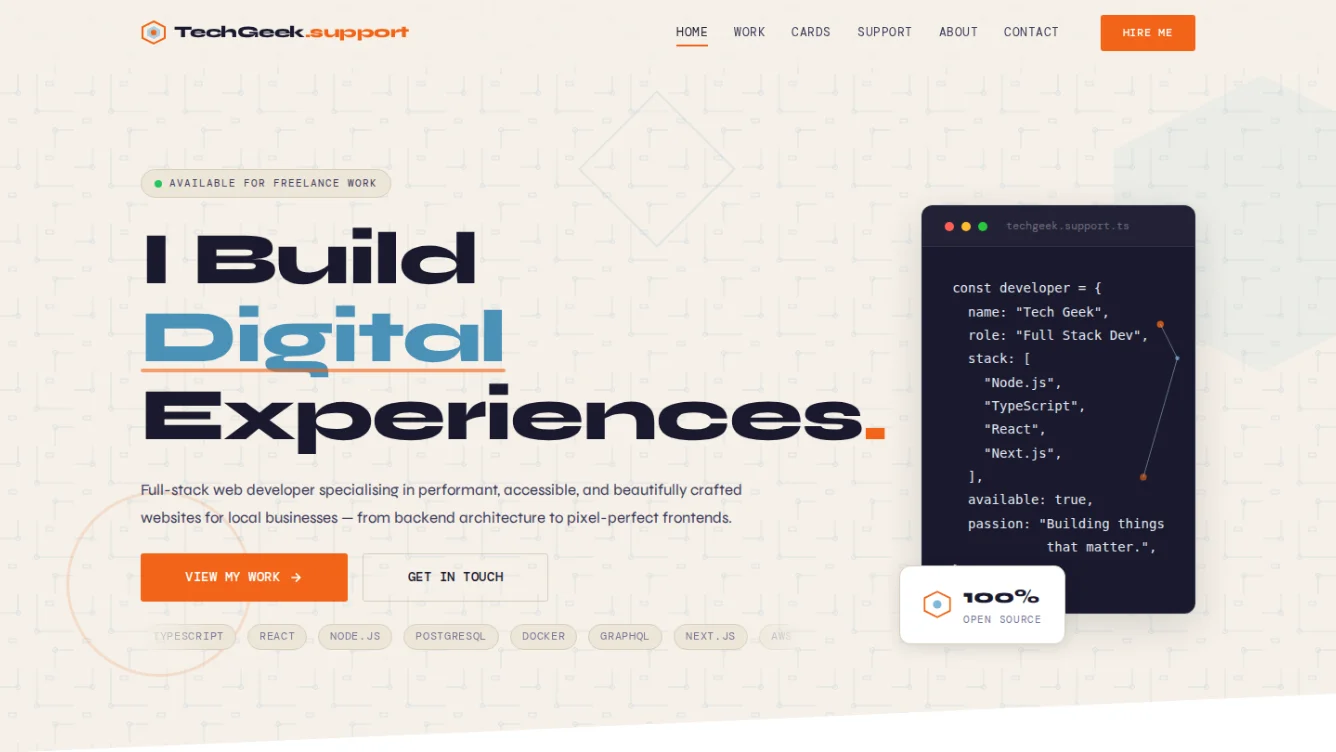
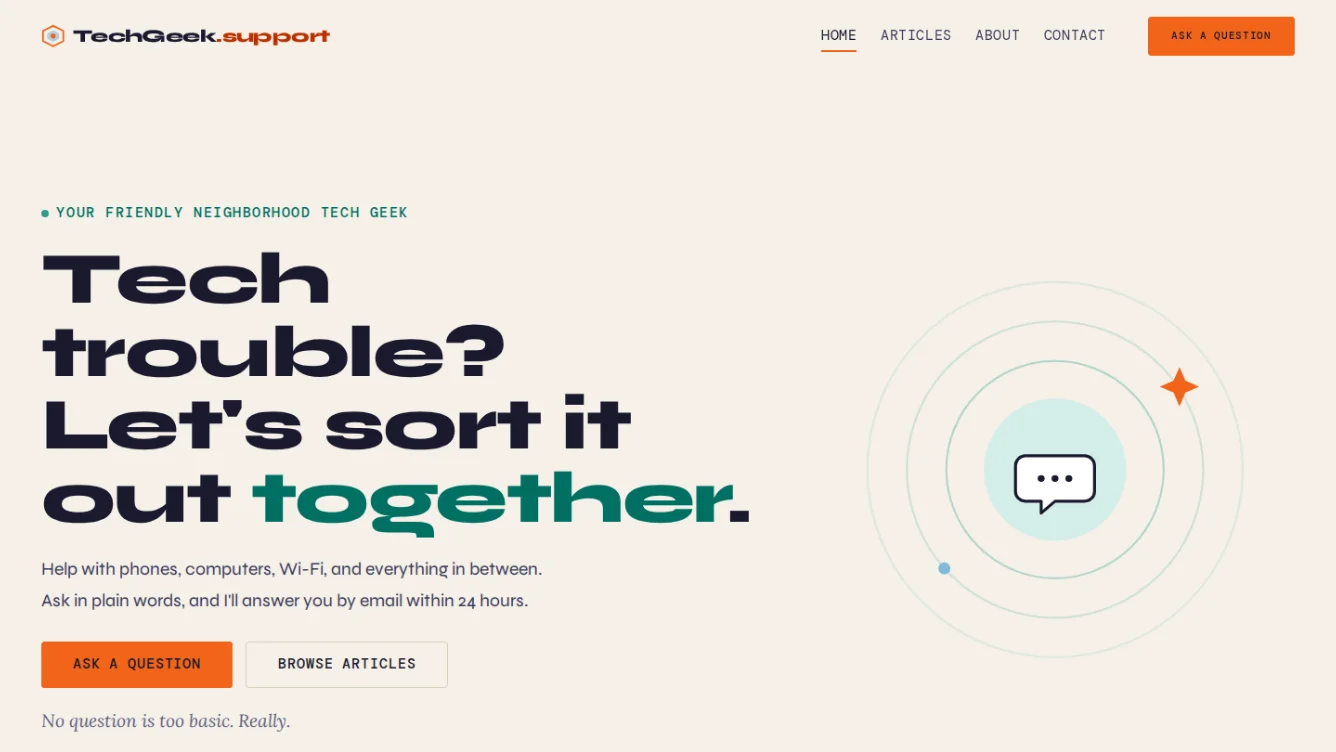
What: TechGeek.support And TechGeek.cards Projects. Why: The Tech Geek entry still described the old all-in-one site, and TechGeek.cards was never added once the two sister sites went live. How: The entry becomes TechGeek.support with a tech help description and its new repository, TechGeek.cards jo

diff --git a/src/ui/projects.ts b/src/ui/projects.ts
@@ -3,13 +3,14 @@
 
 // #region Imports
 
-import emlScrUrl from '../assets/images/ease-my-life-website.webp';     // What: Ease-My-Life Screenshot URL. Why: The Ease My Life project card shows a screenshot of its site. How: Vite resolves this to the image's fingerprinted URL.
-import hadScrUrl from '../assets/images/hair-designs-website.webp';     // What: Hair-Designs Screenshot URL. Why: The Hair Designs project card shows a screenshot of its site. How: Vite resolves this to the image's fingerprinted URL.
-import rerScrUrl from '../assets/images/reese-roofing-website.webp';    // What: Reese-Roofing Screenshot URL. Why: The Reese Roofing project card shows a screenshot of its site. How: Vite resolves this to the image's fingerprinted URL.
-import sasScrUrl from '../assets/images/seal-and-shield-website.webp';  // What: Seal-And-Shield Screenshot URL. Why: The Seal and Shield project card shows a screenshot of its site. How: Vite resolves this to the image's fingerprinted URL.
-import tbbScrUrl from '../assets/images/the-bernie-bears-website.webp'; // What: The-Bernie-Bears Screenshot URL. Why: The Bernie Bears project card shows a screenshot of its site. How: Vite resolves this to the image's fingerprinted URL.
-import tegScrUrl from '../assets/images/tech-geek-website.webp';        // What: Tech-Geek Screenshot URL. Why: The Tech Geek project card shows a screenshot of its site. How: Vite resolves this to the image's fingerprinted URL.
-import totScrUrl from '../assets/images/tonys-toppers-website.webp';    // What: Tonys-Toppers Screenshot URL. Why: The Tony's Toppers project card shows a screenshot of its site. How: Vite resolves this to the image's fingerprinted URL.
+import emlScrUrl from '../assets/images/ease-my-life-website.webp';      // What: Ease-My-Life Screenshot URL. Why: The Ease My Life project card shows a screenshot of its site. How: Vite resolves this to the image's fingerprinted URL.
+import hadScrUrl from '../assets/images/hair-designs-website.webp';      // What: Hair-Designs Screenshot URL. Why: The Hair Designs project card shows a screenshot of its site. How: Vite resolves this to the image's fingerprinted URL.
+import rerScrUrl from '../assets/images/reese-roofing-website.webp';     // What: Reese-Roofing Screenshot URL. Why: The Reese Roofing project card shows a screenshot of its site. How: Vite resolves this to the image's fingerprinted URL.
+import sasScrUrl from '../assets/images/seal-and-shield-website.webp';   // What: Seal-And-Shield Screenshot URL. Why: The Seal and Shield project card shows a screenshot of its site. How: Vite resolves this to the image's fingerprinted URL.
+import tbbScrUrl from '../assets/images/the-bernie-bears-website.webp';  // What: The-Bernie-Bears Screenshot URL. Why: The Bernie Bears project card shows a screenshot of its site. How: Vite resolves this to the image's fingerprinted URL.
+import tgcScrUrl from '../assets/images/tech-geek-cards-website.webp';   // What: Tech-Geek-Cards Screenshot URL. Why: The TechGeek.cards project card shows a screenshot of its site. How: Vite resolves this to the image's fingerprinted URL.
+import tgsScrUrl from '../assets/images/tech-geek-support-website.webp'; // What: Tech-Geek-Support Screenshot URL. Why: The TechGeek.support project card shows a screenshot of its site. How: Vite resolves this to the image's fingerprinted URL.
+import totScrUrl from '../assets/images/tonys-toppers-website.webp';     // What: Tonys-Toppers Screenshot URL. Why: The Tony's Toppers project card shows a screenshot of its site. How: Vite resolves this to the image's fingerprinted URL.
 
 // #endregion Imports
 
@@ -193,18 +194,35 @@ const PRO_REC_ARR : ProRecTyp[] = [ // What: Project Record Array. Why: Every pa
 
 	},
 
-	{ // What: Tech Geek Project Record. Why: Tech Geek is one of the projects the site showcases. How: This holds its card's text, links, screenshot, and tags.
+	{ // What: TechGeek.support Project Record. Why: TechGeek.support is one of the projects the site showcases. How: This holds its card's text, links, screenshot, and tags.
 
 
 		cliBoo : false,
-		desStr : 'A website for helping local businesses get online in order to reach larger audiences and grow their reach.',
+		desStr : 'Free, friendly tech help for everyday people, with plain-spoken articles and questions answered by email.',
 		feaBoo : true,
-		gitStr : 'https://github.com/z4nta0/techgeek',
+		gitStr : 'https://github.com/z4nta0/tech-geek-support',
 		ideStr : 'proj-07',
-		imaStr : tegScrUrl,
+		imaStr : tgsScrUrl,
 		livStr : 'https://techgeek.support/',
 		tagArr : [ 'React', 'TypeScript', 'Node.js', 'React Router', 'Vite' ],
-		titStr : 'Tech Geek',
+		titStr : 'TechGeek.support',
+		yeaNum : 2026
+
+
+	},
+
+	{ // What: TechGeek.cards Project Record. Why: TechGeek.cards is one of the projects the site showcases. How: This holds its card's text, links, screenshot, and tags.
+
+
+		cliBoo : false,
+		desStr : 'Animated digital greeting cards, each one hand-coded to play in the browser and sent as a link.',
+		feaBoo : true,
+		gitStr : 'https://github.com/z4nta0/tech-geek-cards',
+		ideStr : 'proj-08',
+		imaStr : tgcScrUrl,
+		livStr : 'https://techgeek.cards/',
+		tagArr : [ 'React', 'TypeScript', 'GSAP', 'React Router', 'Vite' ],
+		titStr : 'TechGeek.cards',
 		yeaNum : 2026
 
 

diff --git a/tests/interaction/feedback.spec.ts b/tests/interaction/feedback.spec.ts
@@ -312,7 +312,7 @@ for ( const staRecObj of STA_REC_ARR ) { // What: State Test Loop. Why: Every pa
 	test( `${ staRecObj.ideStr } gives every control hover, press, and focus feedback`, async ( { page : curPagObj } ) => { // What: Feedback Test. Why: Every interaction should visibly register. How: This opens the state, blocks clicks, and probes every control.
 
 
-		test.slow(); // What: Slow Test Mark. Why: Probing every control's hover, press, and focus waits through each look's transition, which runs past the default 30 second timeout on the pages with the most controls. How: This triples this test's timeout.
+		test.setTimeout( 240000 ); // What: Test Timeout Call. Why: Probing every control's hover, press, and focus waits through each look's transition, which took WebKit past 90 seconds on the Work page once its project list grew. How: This gives the test four minutes.
 
 		await opeStaFun( curPagObj, staRecObj ); // What: State Open Call. Why: The controls are probed with the state settled. How: This loads and settles it.
 
@@ -346,7 +346,7 @@ for ( const staRecObj of STA_REC_ARR ) { // What: State Test Loop. Why: Every pa
 	test( `${ staRecObj.ideStr } keeps feedback without motion under reduced motion`, async ( { page : curPagObj } ) => { // What: Reduced Motion Feedback Test. Why: Visitors who ask for less motion still need to see their actions register. How: This probes every control with reduced motion on.
 
 
-		test.slow(); // What: Slow Test Mark. Why: Probing every control's hover, press, and focus waits through each look's transition, which runs past the default 30 second timeout on the pages with the most controls. How: This triples this test's timeout.
+		test.setTimeout( 240000 ); // What: Test Timeout Call. Why: Probing every control's hover, press, and focus waits through each look's transition, which took WebKit past 90 seconds on the Work page once its project list grew. How: This gives the test four minutes.
 
 		await curPagObj.emulateMedia( { reducedMotion : 'reduce' } ); // What: Reduced Motion Emulation. Why: The preference has to be set before the page loads. How: This makes the page match prefers-reduced-motion: reduce.
 

diff --git a/CLAUDE.md b/CLAUDE.md
@@ -49,7 +49,7 @@ Decided 2026-10-12 by the user, in the step 7 content review.
   projects are added, and always end in a plus, since older projects that
   are no longer online still count. The client sites are Hair Designs, The
   Bernie Bears, Tony's Toppers, Seal and Shield, and Reese Roofing; Ease My
-  Life and Tech Geek are z4nta0's own.
+  Life, TechGeek.support, and TechGeek.cards are z4nta0's own.
 - **Reese Roofing is a mockup**, not a real business (see its own
   CLAUDE.md), so its project description says so.
 - **Skills**: Home's ticker lists TypeScript, React, Node.js, Next.js, and
@@ -750,7 +750,10 @@ decided by the user on 2026-10-13 (step 12, on the `deferred-items` branch).
 - **Tech Geek project entry** (Work and Home, decided 2026-10-13): stays live
   with its current screenshot until `../tech-geek-support` is finished (under
   a week), then its screenshot, description, and GitHub link are updated and
-  a TechGeek.cards entry is added.
+  a TechGeek.cards entry is added. Done 2026-11-01: the entry became
+  TechGeek.support, described as the tech help site it now is, and
+  TechGeek.cards joined after it with its own GSAP tag, both with fresh
+  screenshots from `npm run screenshots`.
 - **Business card SVGs** (`design/business-cards/`, decided 2026-10-13): no
   redesign, only the details changed to techgeek.dev and the text enlarged,
   since the printed cards' text was too small (the 11-unit text printed at
